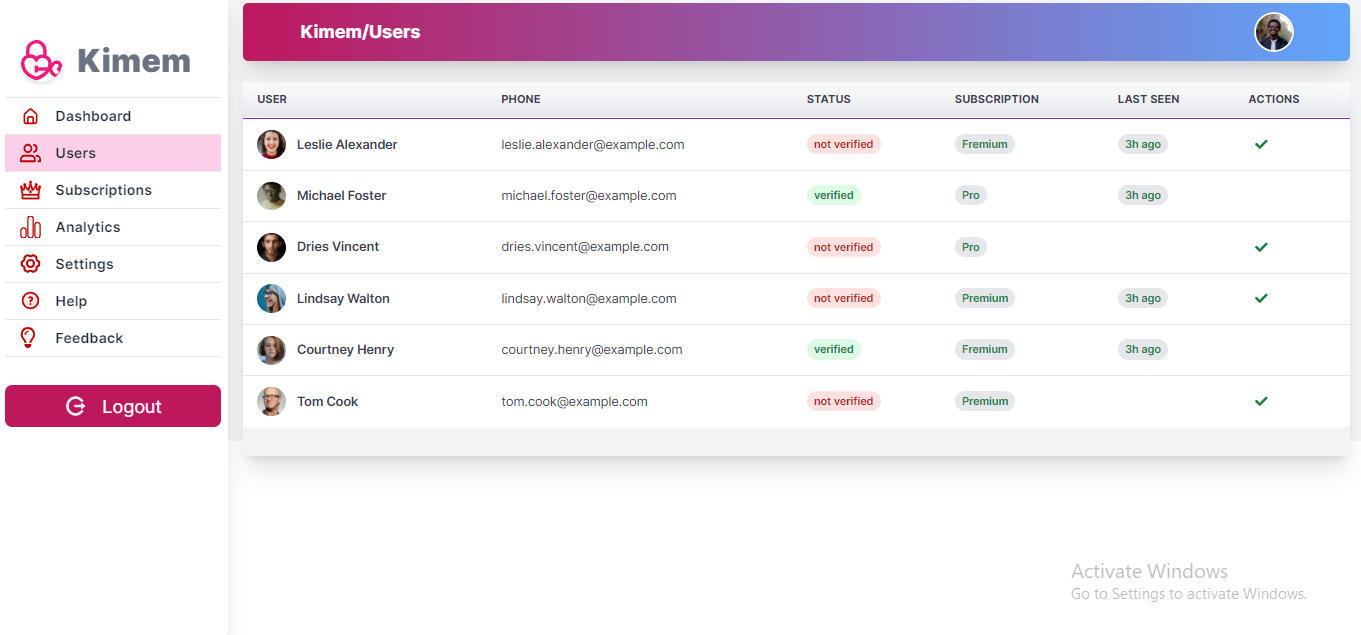
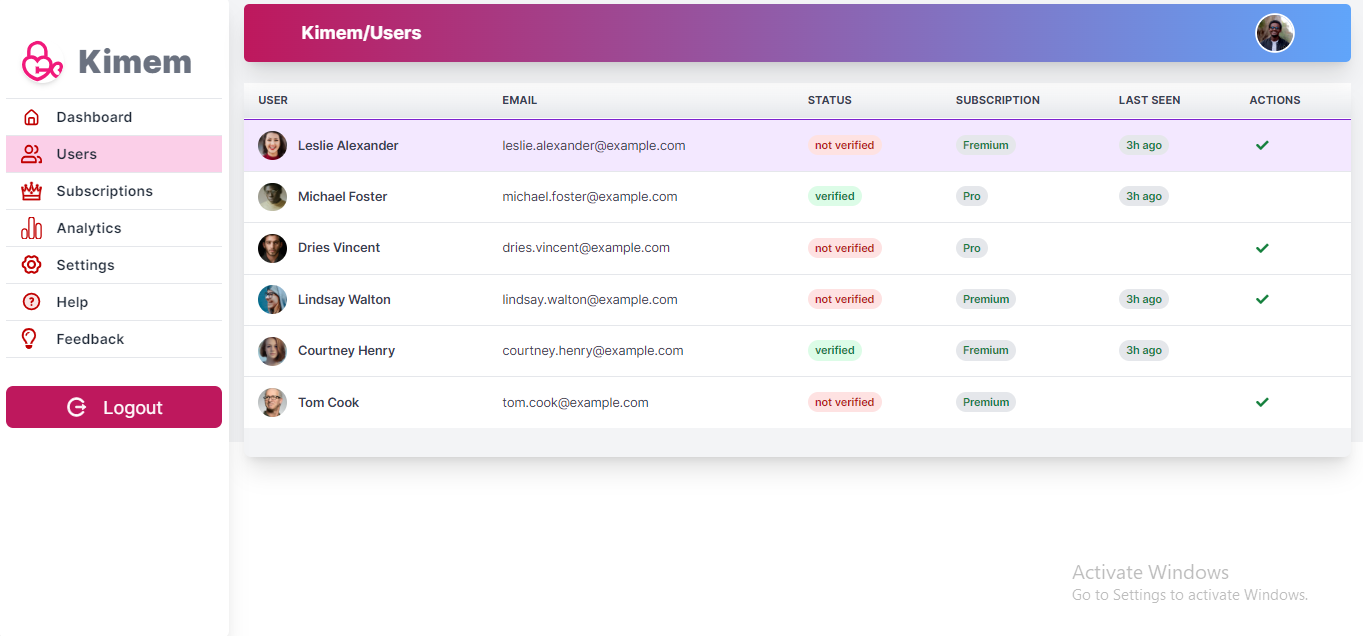
adding screenshots on readme

diff --git a/src/pages/Users/index.tsx b/src/pages/Users/index.tsx
@@ -94,7 +94,7 @@ const Users = (): JSX.Element => {
                         <thead>
                             <tr className="text-xs font-semibold tracking-wide text-left text-gray-700 uppercase border-b border-purple-700 bg-gradient-to-b from-white to-gray-200">
                                 <th className="px-4 py-3">User</th>
-                                <th className="px-4 py-3">Phone</th>
+                                <th className="px-4 py-3">Email</th>
                                 <th className="px-4 py-3">Status</th>
                                 <th className="px-4 py-3">Subscription</th>
                                 <th className="px-4 py-3">Last seen</th>

diff --git a/README.md b/README.md
@@ -16,7 +16,7 @@ A multi-purpose admin dashboard
 </div>
 
 ##
-<img src="src/assets/images/images1.PNG"/>
+<img src="src/assets/images/image1.PNG"/>
 <img src="src/assets/images/image2.PNG"/>
 <img src="src/assets/images/image3.PNG"/>
 
